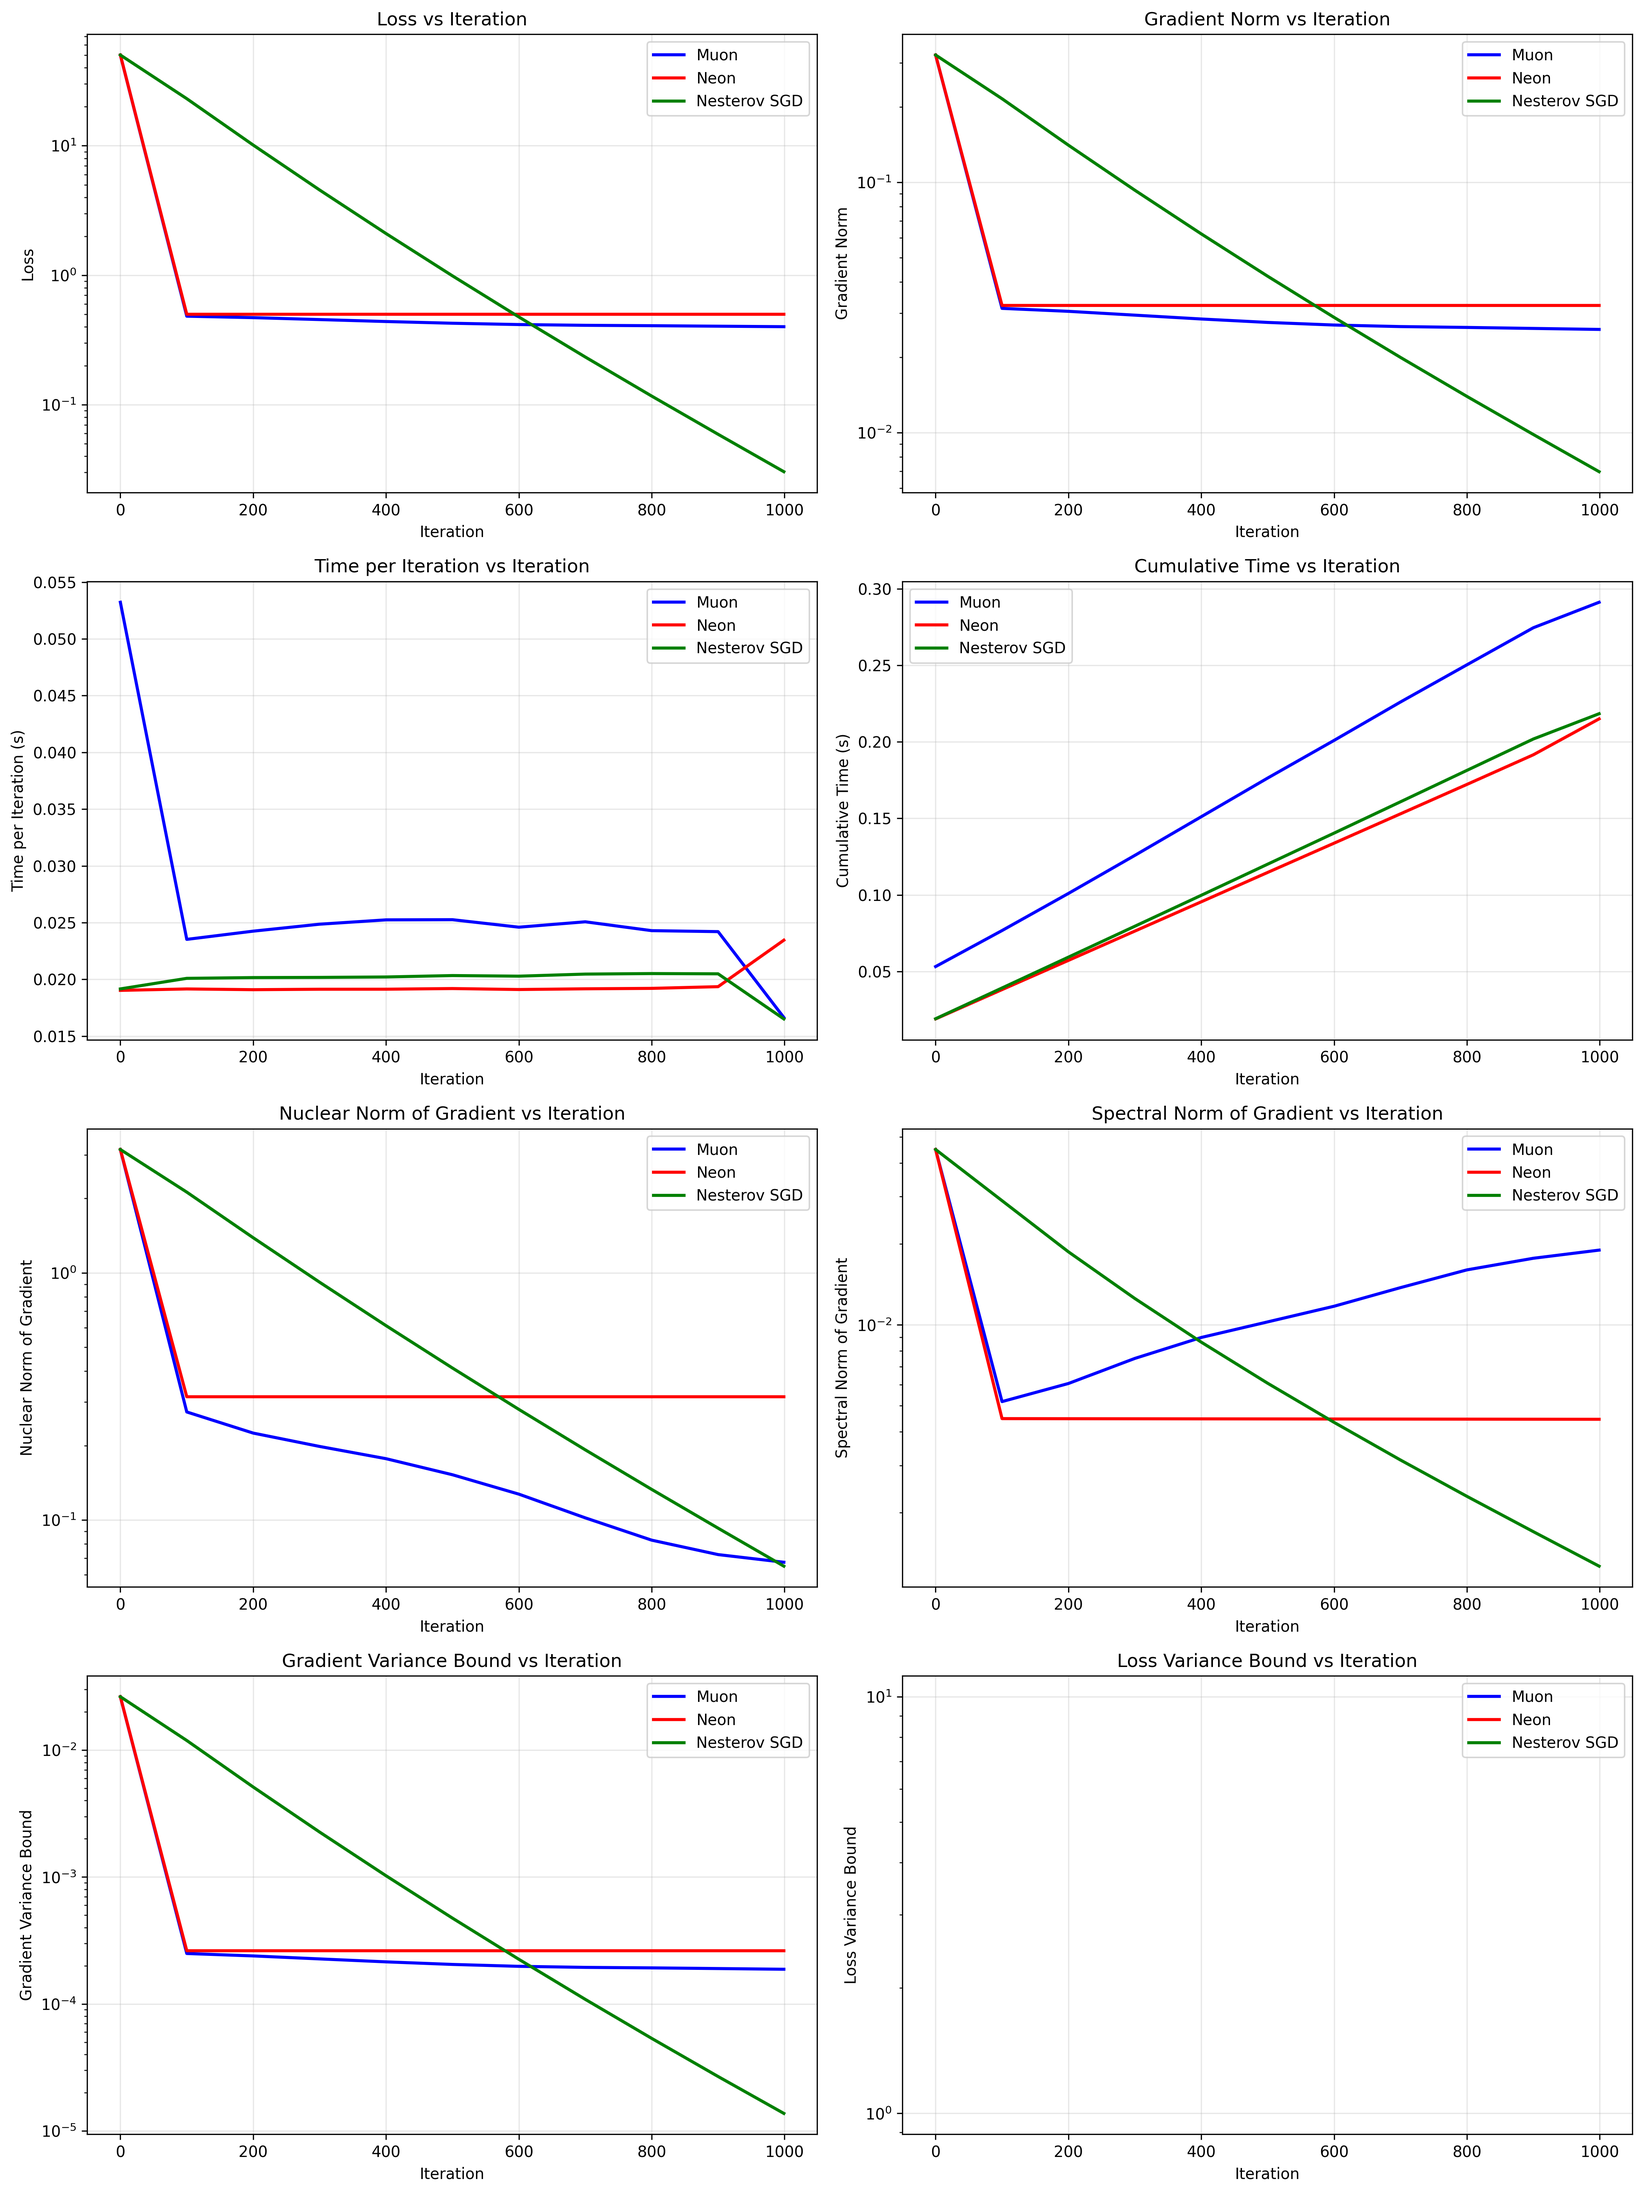
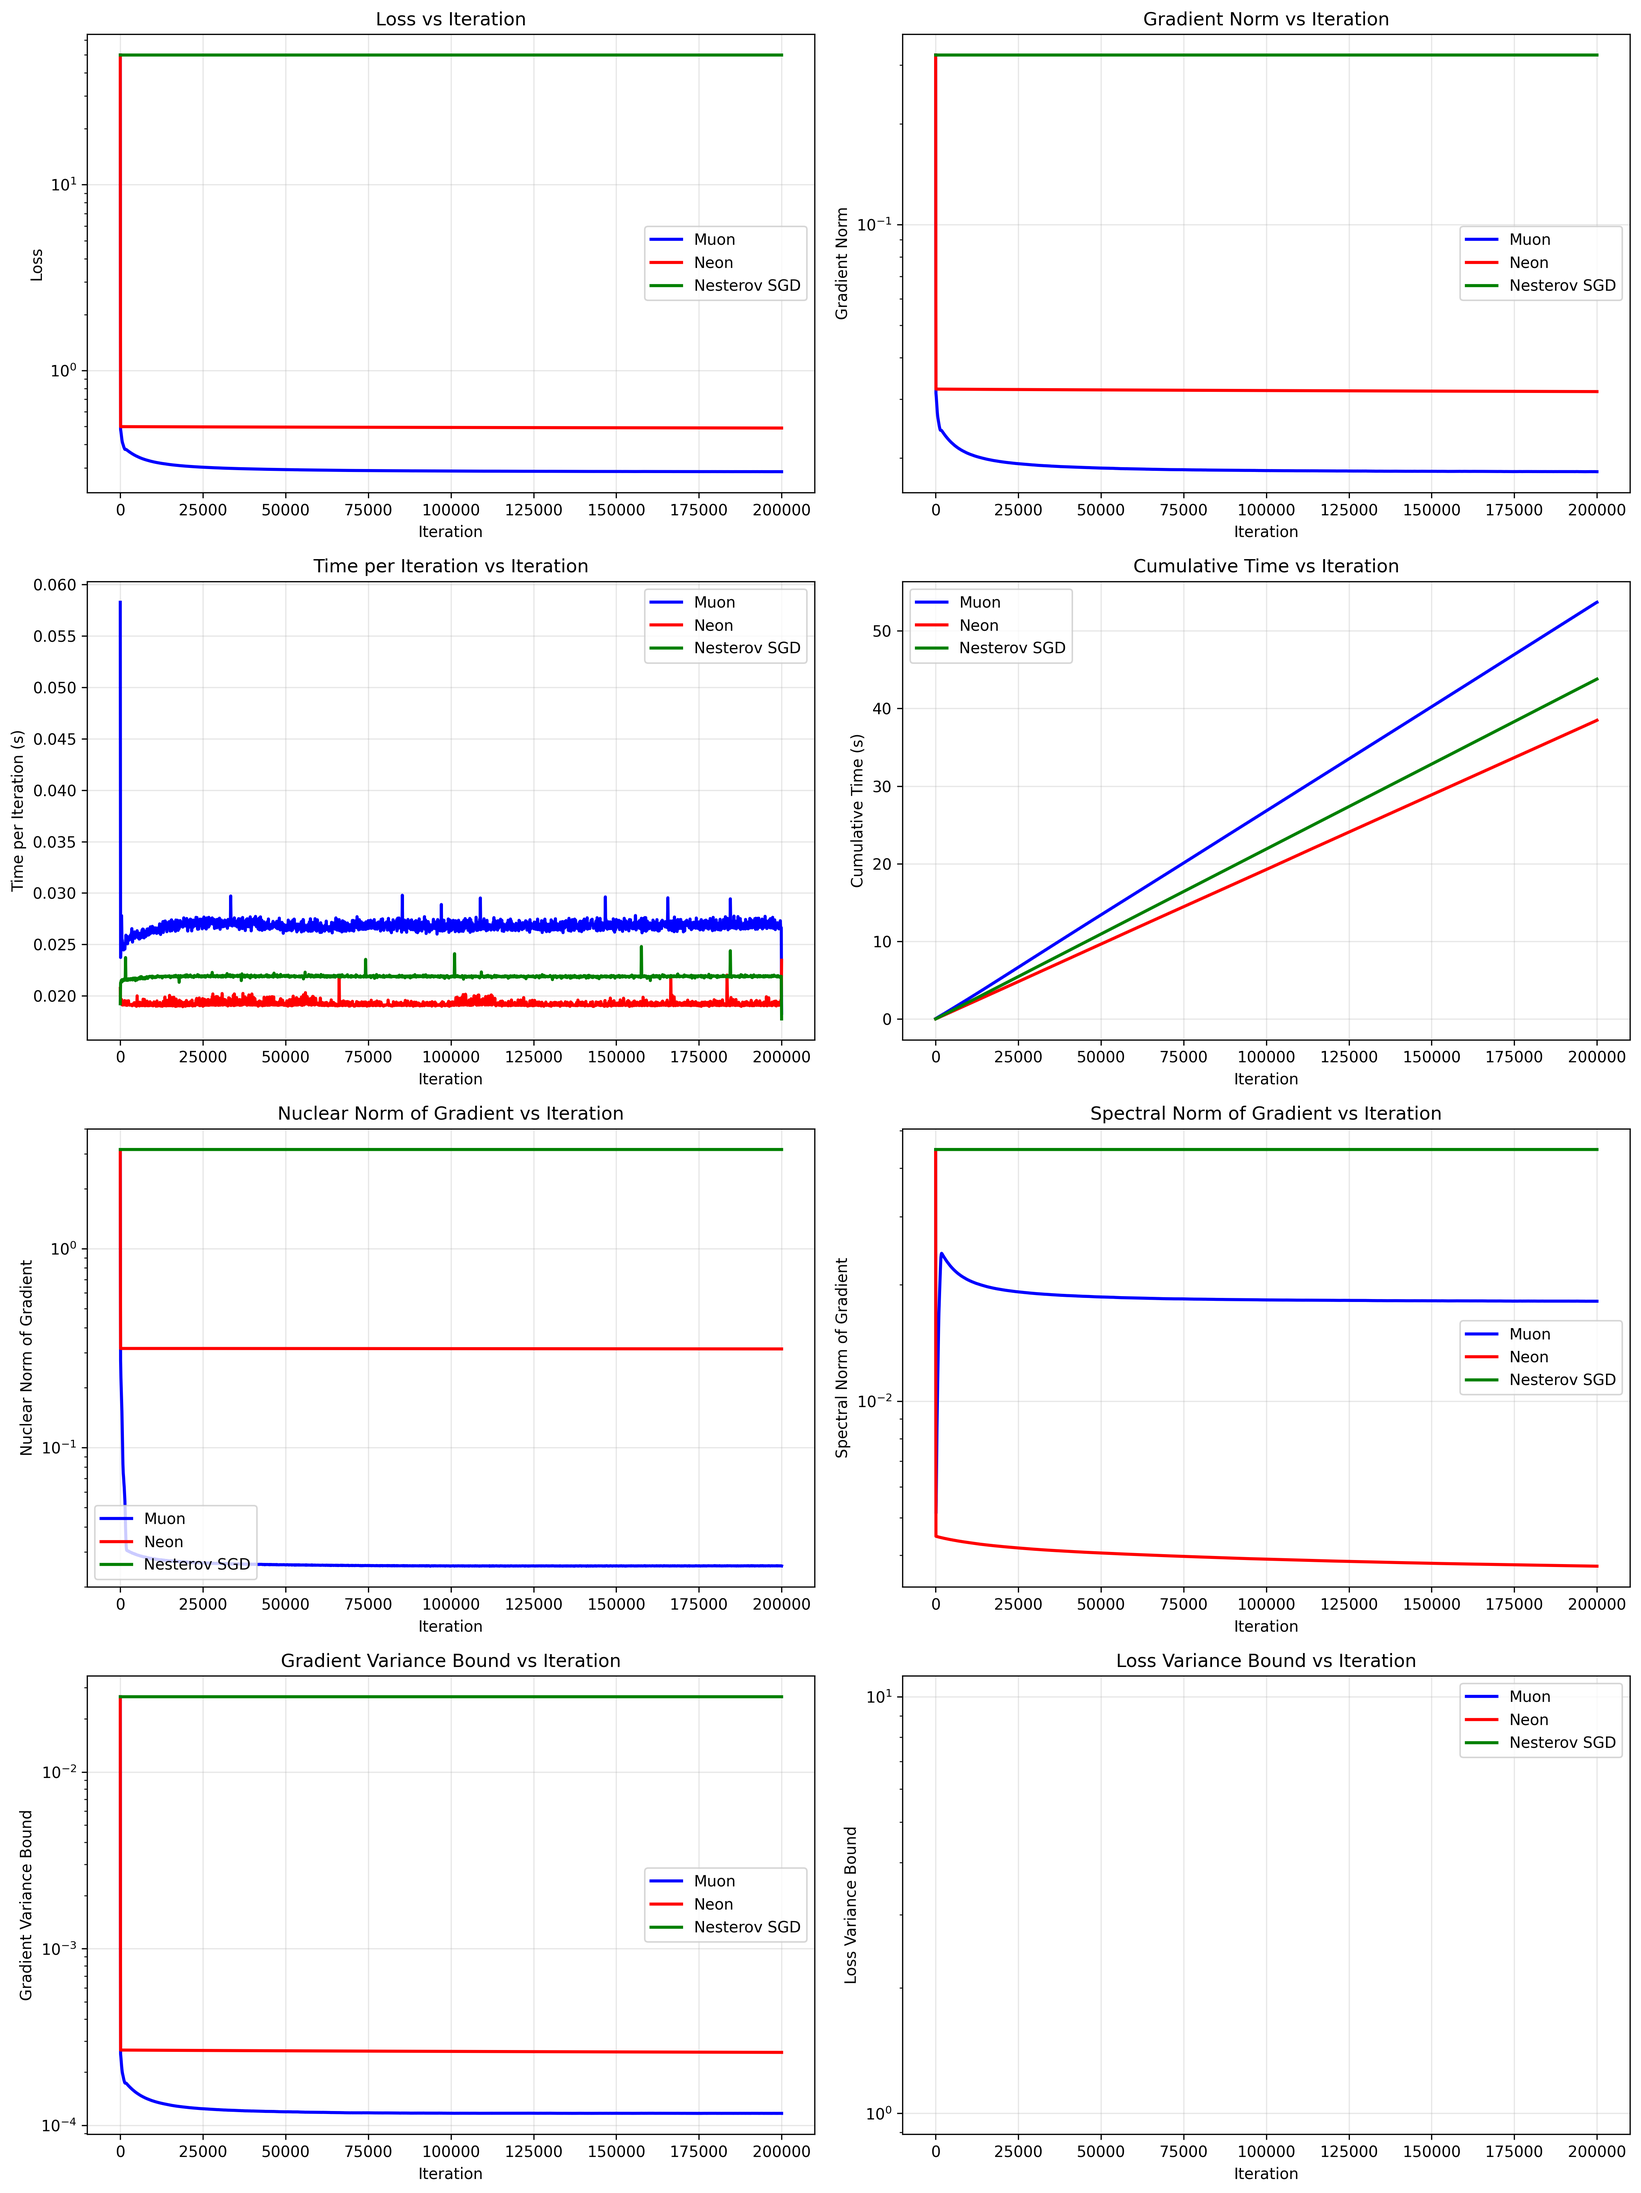
Alpha version of L-smooth

diff --git a/code/optimizer_comparison.py b/code/optimizer_comparison.py
@@ -759,7 +759,7 @@ if __name__ == "__main__":
         m=1000,           # Matrix rows
         n=100,          # Matrix columns
         num_nodes=20,
-        num_iterations=50000,  # Number of optimization iterations
+        num_iterations=200000,  # Number of optimization iterations
         plot_interval=100,     # Plot data every 50 iterations
     )
     
